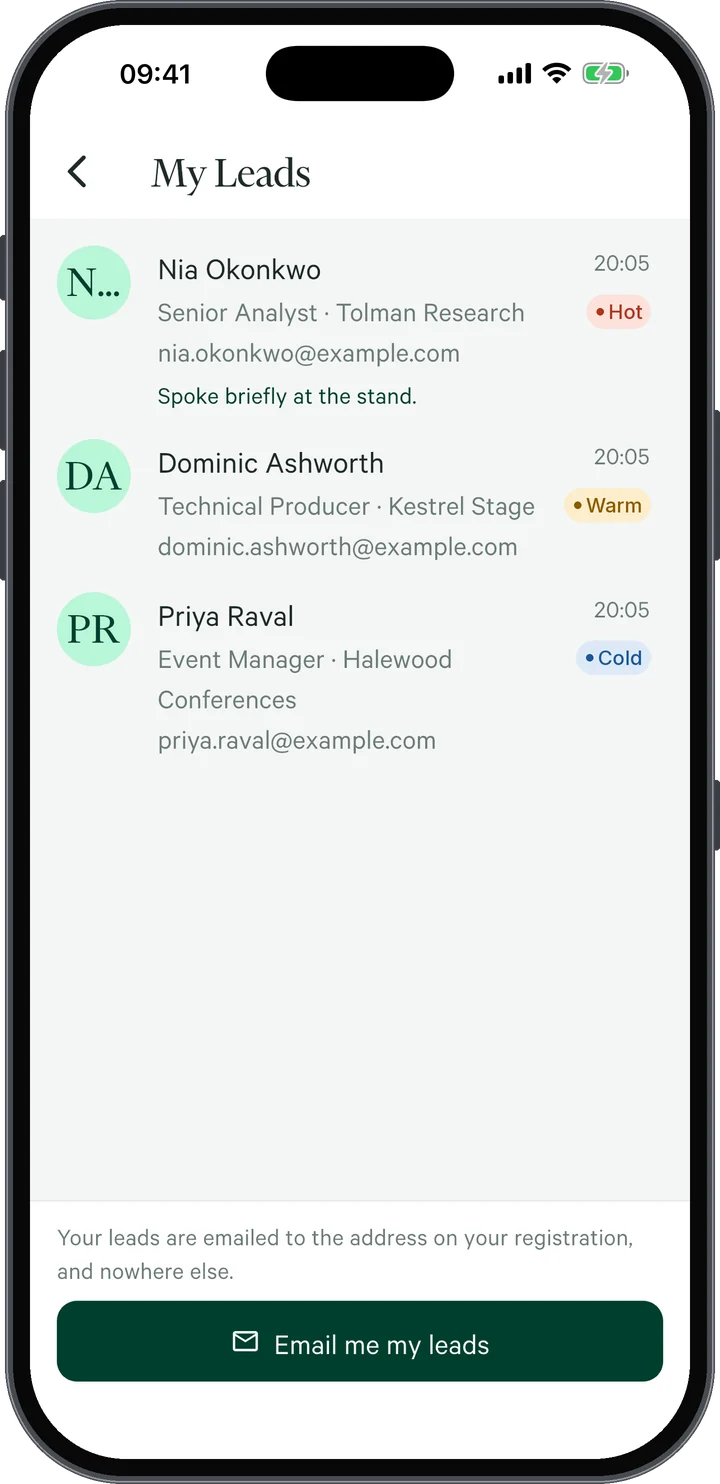
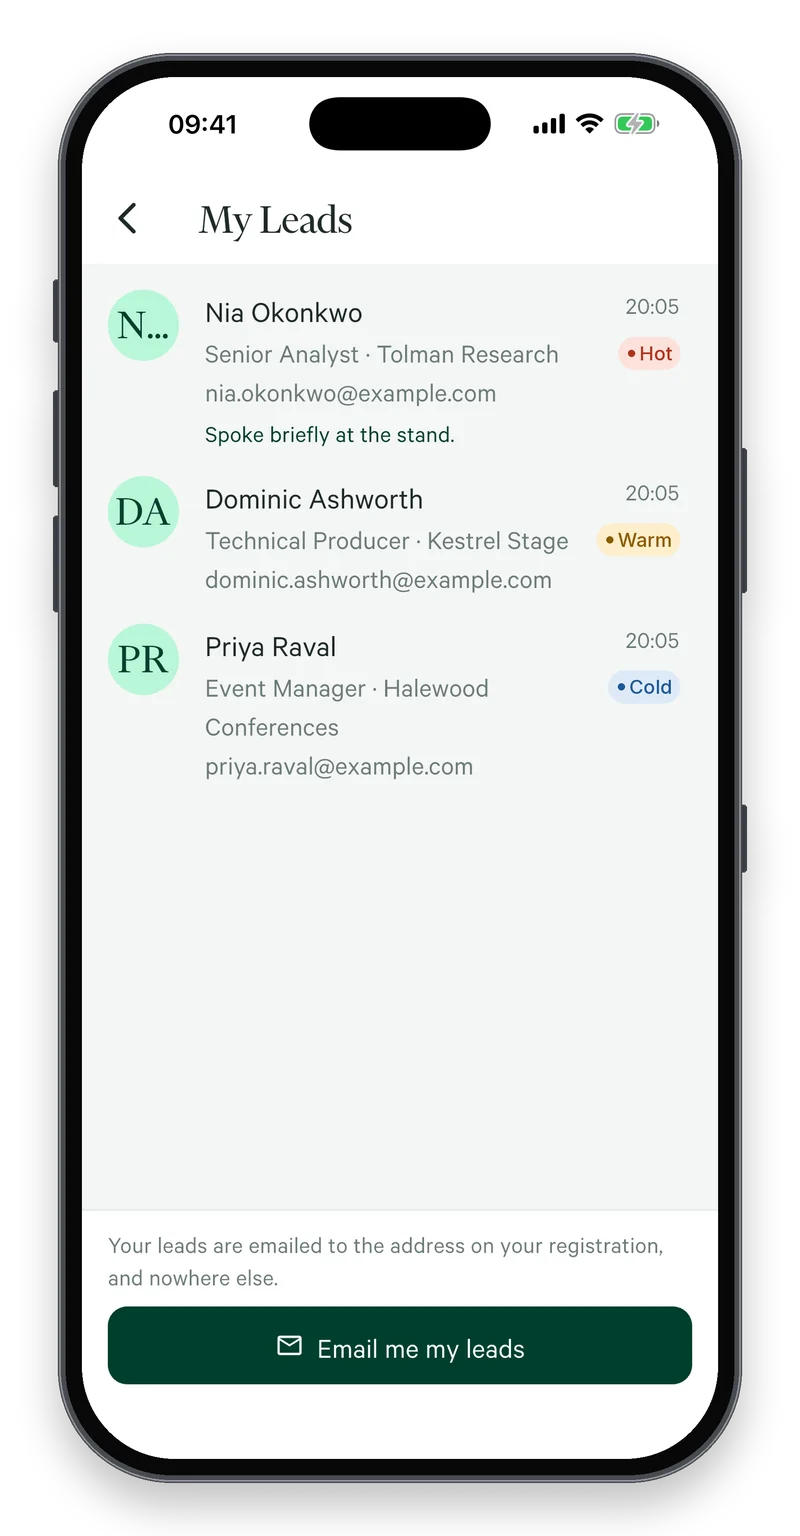
Add app CMS and reporting suite; bake phone shadows into images
- New "Running the app" section: integrated app CMS that pulls from and
  pushes to Mitingu, content changes on the day, one attendee record,
  full reporting suite; matching FAQ, short-answer facts and homepage points
- Phone mockups now carry their own soft shadow (fixes patchy CSS shadow
  rendering) and use simpler overlap layout

Claude-Session: https://claude.ai/code/session_0164TzKSghcBB6jGoTFvqHYc

diff --git a/src/styles.css b/src/styles.css
@@ -2046,7 +2046,6 @@ textarea:focus {
   display: block;
   width: 100%;
   height: auto;
-  filter: drop-shadow(0 22px 34px rgba(21, 23, 22, 0.2));
 }
 
 .phone-pair {
@@ -2057,16 +2056,17 @@ textarea:focus {
 }
 
 .phone-pair .phone {
-  width: min(250px, 42%);
+  width: min(290px, 48%);
 }
 
 .phone-pair .phone-back {
-  transform: translate(18%, -18px) rotate(-4deg);
+  margin-right: -16%;
+  margin-top: -40px;
 }
 
 .phone-pair .phone-front {
   position: relative;
-  transform: translate(-14%, 22px) rotate(3deg);
+  margin-top: 40px;
 }
 
 .apps-band-inner {
@@ -2110,22 +2110,25 @@ textarea:focus {
 }
 
 .phone-trio {
-  display: grid;
-  grid-template-columns: 1fr 1.15fr 1fr;
+  display: flex;
   align-items: center;
+  justify-content: center;
+}
+
+.phone-trio .phone {
+  width: 40%;
 }
 
 .phone-trio .phone-side {
-  opacity: 0.96;
-  transform: scale(0.94);
+  width: 35%;
 }
 
 .phone-trio .phone-side:first-child {
-  transform: translateX(14%) scale(0.9);
+  margin-right: -9%;
 }
 
 .phone-trio .phone-side:last-child {
-  transform: translateX(-14%) scale(0.9);
+  margin-left: -9%;
 }
 
 .phone-trio .phone-front {
@@ -2140,7 +2143,7 @@ textarea:focus {
 
 .app-feature {
   display: grid;
-  grid-template-columns: minmax(180px, 250px) minmax(0, 1fr);
+  grid-template-columns: minmax(200px, 290px) minmax(0, 1fr);
   gap: clamp(32px, 6vw, 96px);
   align-items: center;
   padding: 40px clamp(24px, 5vw, 64px);
@@ -2150,7 +2153,7 @@ textarea:focus {
 }
 
 .app-feature.reverse {
-  grid-template-columns: minmax(0, 1fr) minmax(180px, 250px);
+  grid-template-columns: minmax(0, 1fr) minmax(200px, 290px);
 }
 
 .app-feature.reverse .app-feature-media {
@@ -2210,6 +2213,6 @@ textarea:focus {
   }
 
   .phone-pair .phone {
-    width: min(200px, 44%);
+    width: min(230px, 52%);
   }
 }
